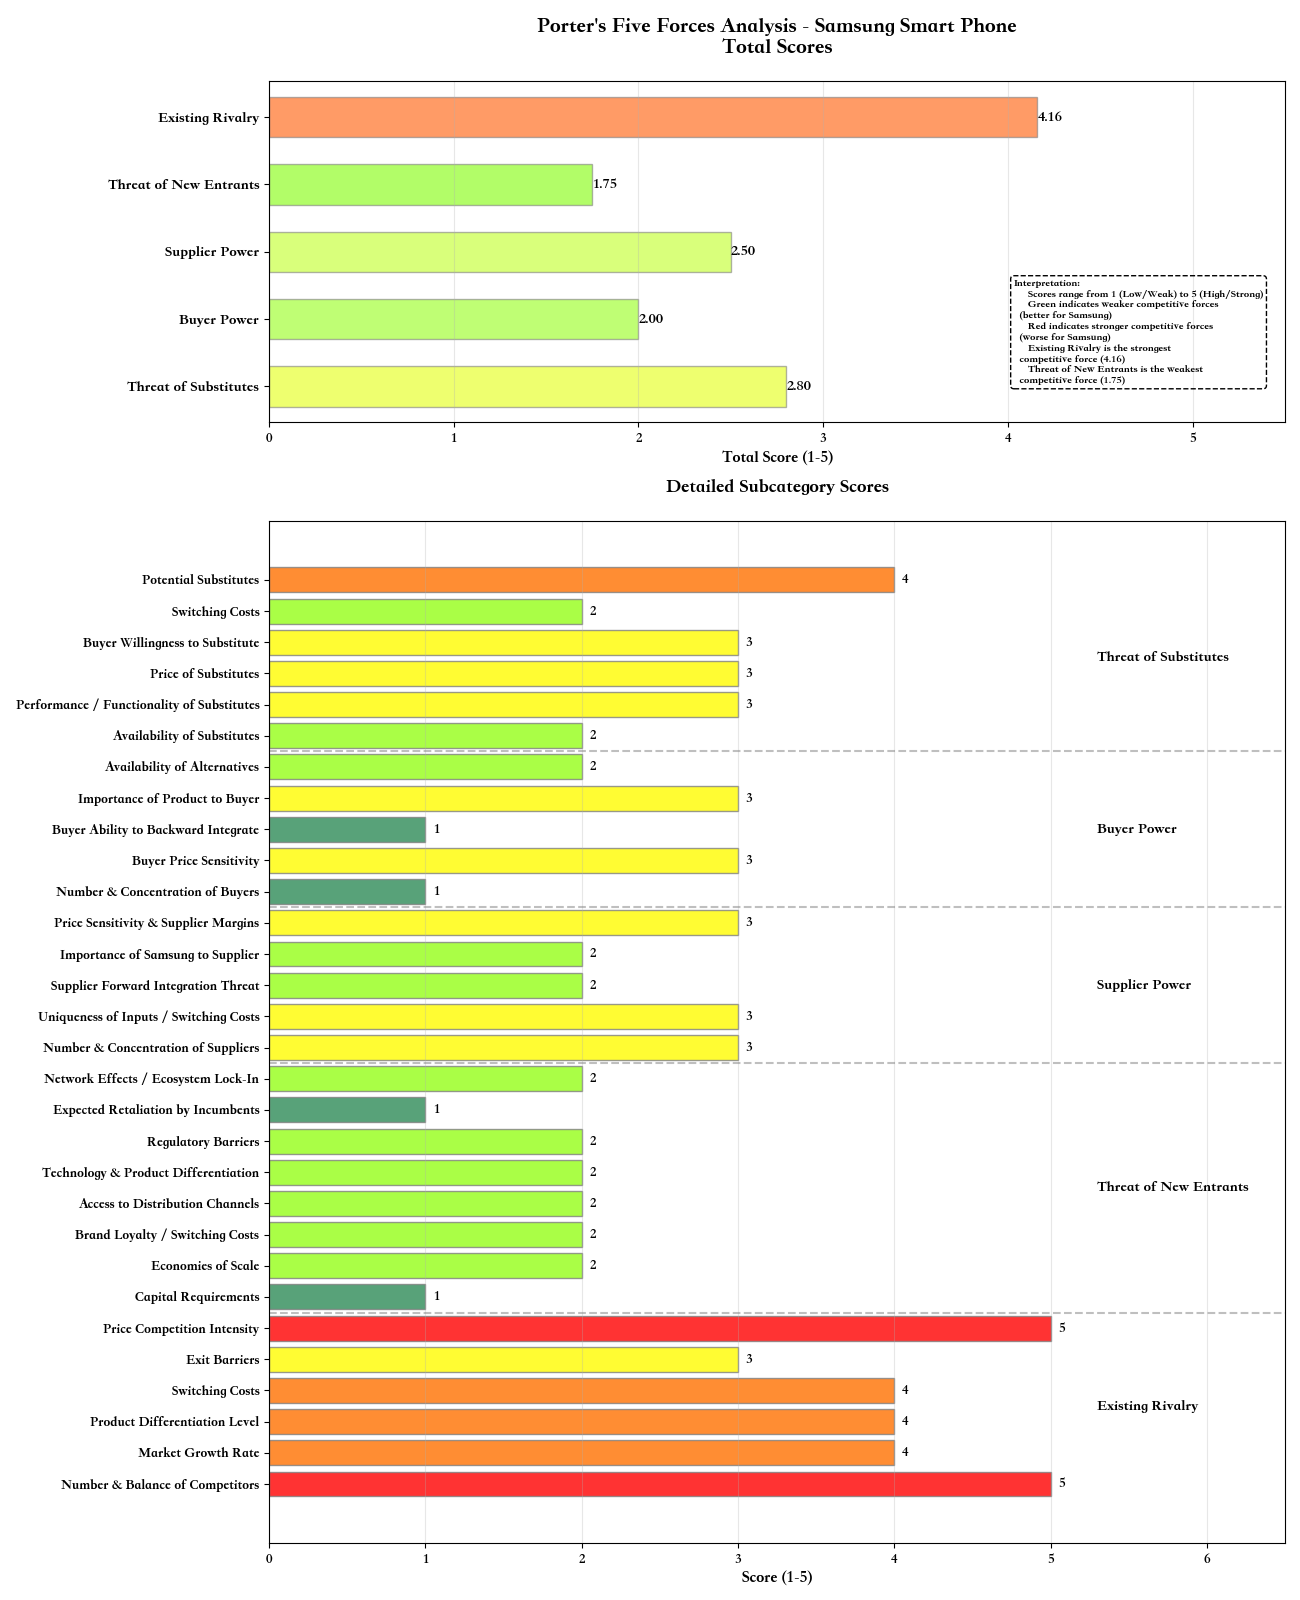
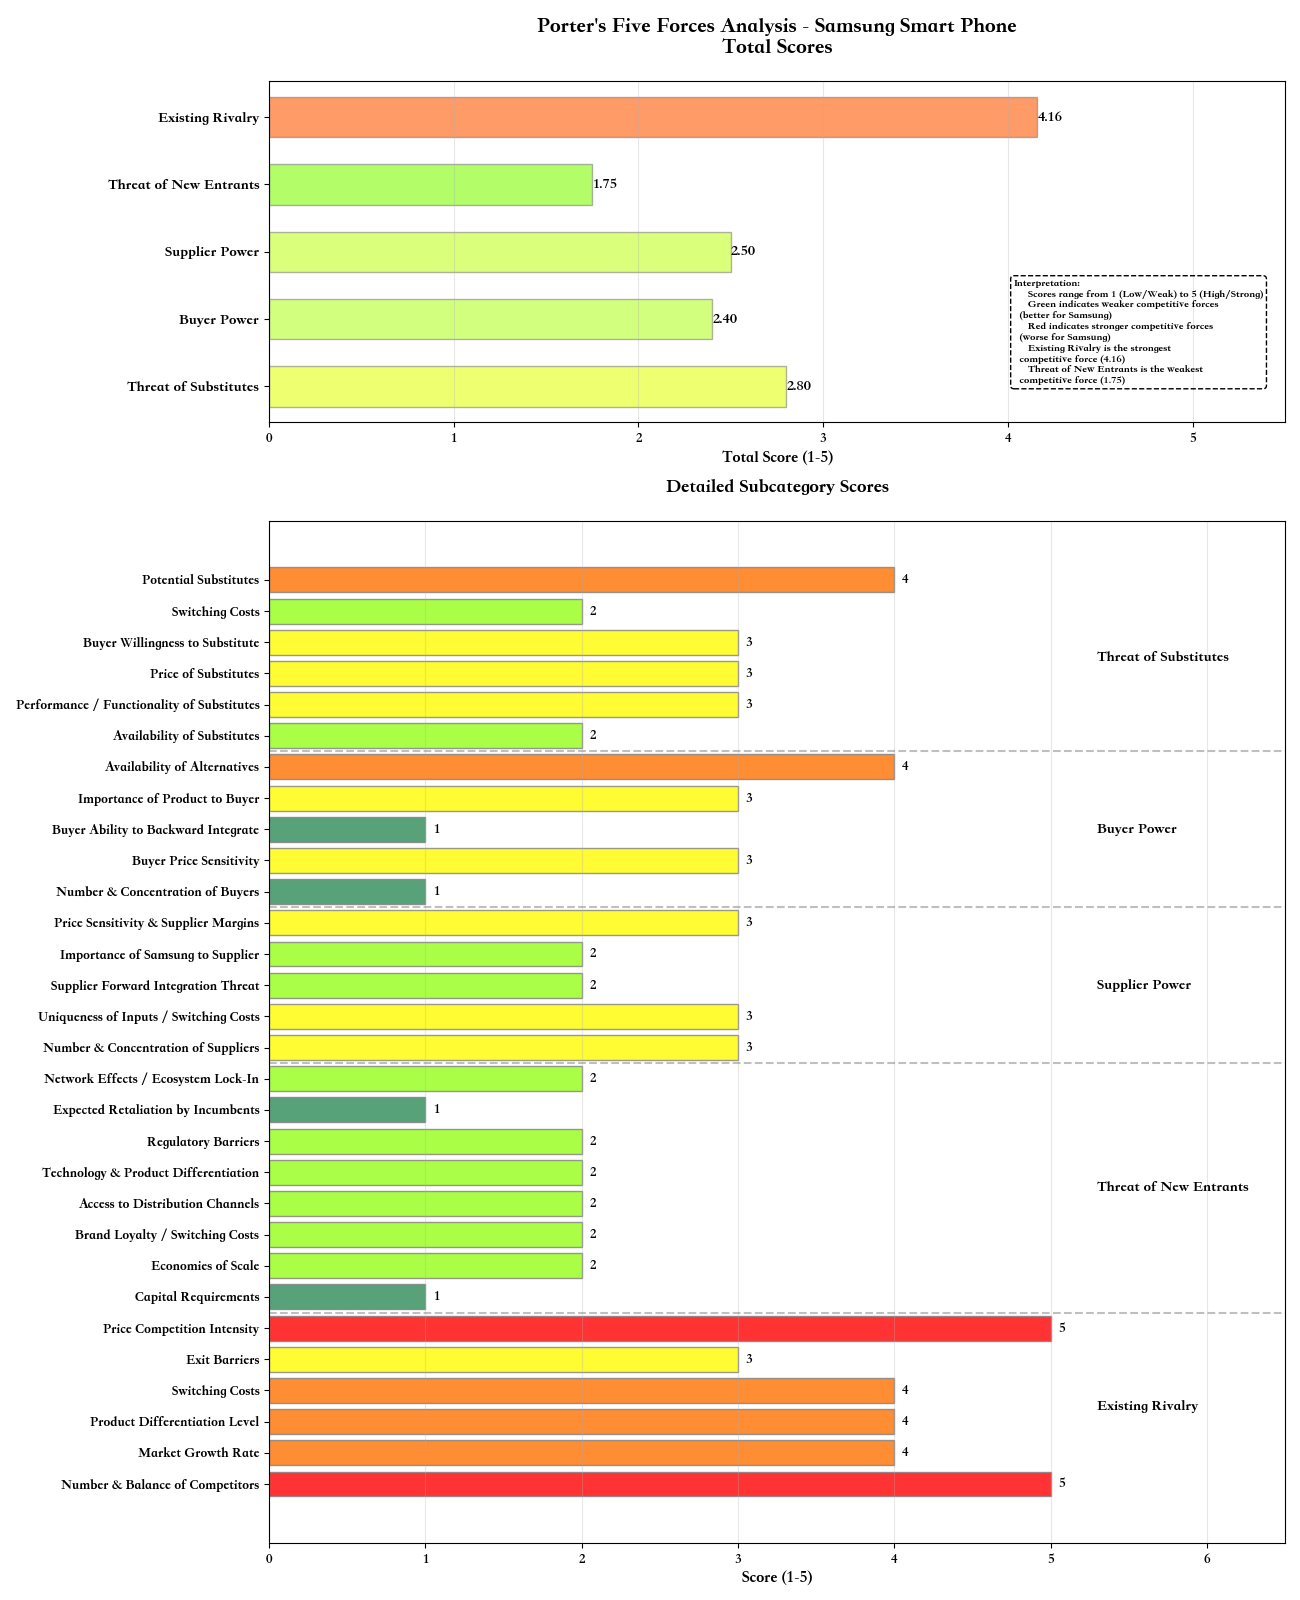
assignment

Changed region(s): [[0.1846, 0.4688, 0.7077, 0.5], [0.4923, 0.1875, 0.5538, 0.2188]]

diff --git a/src/IndividualAssignment/549 group/Visualization.py b/src/IndividualAssignment/549 group/Visualization.py
@@ -2,13 +2,13 @@ import matplotlib.pyplot as plt
 import numpy as np
 import matplotlib.colors as mcolors
 import pandas as pd
-from adjustText import adjust_text
+
 
 # 设置中文字体
 plt.rcParams['font.family'] = 'Songti SC'
 plt.rcParams['axes.unicode_minus'] = False
 
-def draw_porter_5_forces_fan():
+def draw_porter_detail():
     # 数据整理
     data = {
         "Existing Rivalry": {
@@ -44,8 +44,8 @@ def draw_porter_5_forces_fan():
             "Buyer Price Sensitivity": 3,
             "Buyer Ability to Backward Integrate": 1,
             "Importance of Product to Buyer": 3,
-            "Availability of Alternatives": 2,
-            "Total": 2.0
+            "Availability of Alternatives": 4,
+            "Total": 2.4
         },
         "Threat of Substitutes": {
             "Availability of Substitutes": 2,
@@ -175,7 +175,7 @@ def draw_porter_bar():
         "Bargaining Power of Buyers",
         "Threat of Substitutes"
     ]
-    scores = [4.16, 1.75, 2.5, 2.0, 2.8]
+    scores = [4.16, 1.75, 2.5, 2.4, 2.8]
 
     # 自定义颜色（按您的表格）
     colors = ['#FF0000', '#00CC00', '#D3D3D3', '#D3D3D3', '#FFA500']  # 红、绿、黄、橙、橙
@@ -204,7 +204,7 @@ def draw_porter_bar():
     plt.savefig('data/output/porter')
 
 
-def create_competitive_advantage_stack_chart(figsize=(14, 8), subplot_figsize=(16, 6)):
+def draw_competitive_advantage_stack_chart(figsize=(14, 8), subplot_figsize=(16, 6)):
     """
     Create stacked bar charts showing competitive advantage distribution across value chain activities.
 
@@ -342,7 +342,7 @@ def create_competitive_advantage_stack_chart(figsize=(14, 8), subplot_figsize=(1
     plt.savefig('data/output/internal_env_stack_chart.png')
 
 
-def create_vrio_scatter_plot(figsize=(14, 10)):
+def draw_vrio_scatter_plot(figsize=(14, 10)):
     """
     Create a color-coded scatter plot showing the relationship between Rarity and Imitability
     of resources/capabilities, with color indicating Competitive Implication.
@@ -569,4 +569,4 @@ if __name__ == '__main__':
 
 
     # Use the function to create charts
-    create_vrio_scatter_plot()
+    draw_porter_detail()
